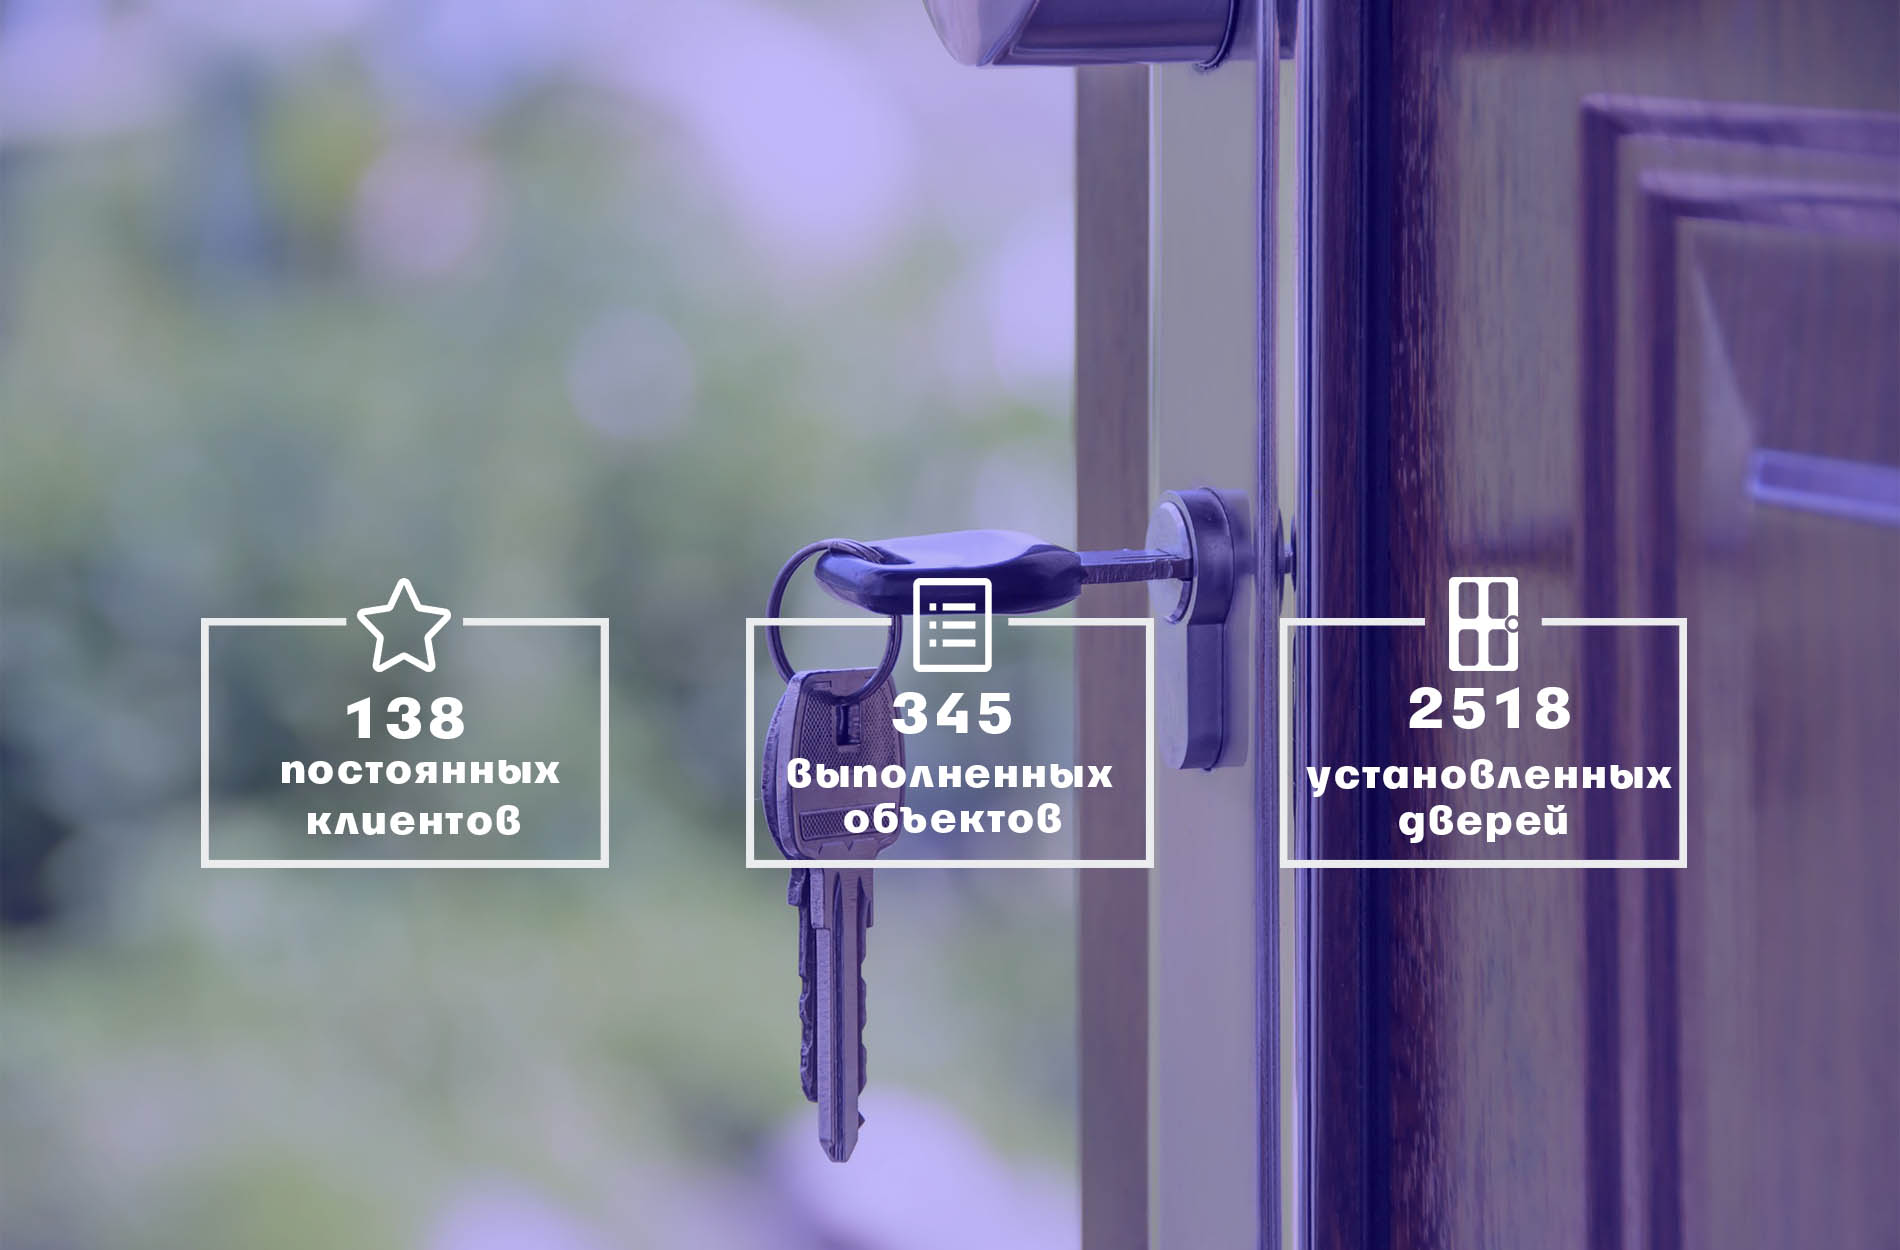
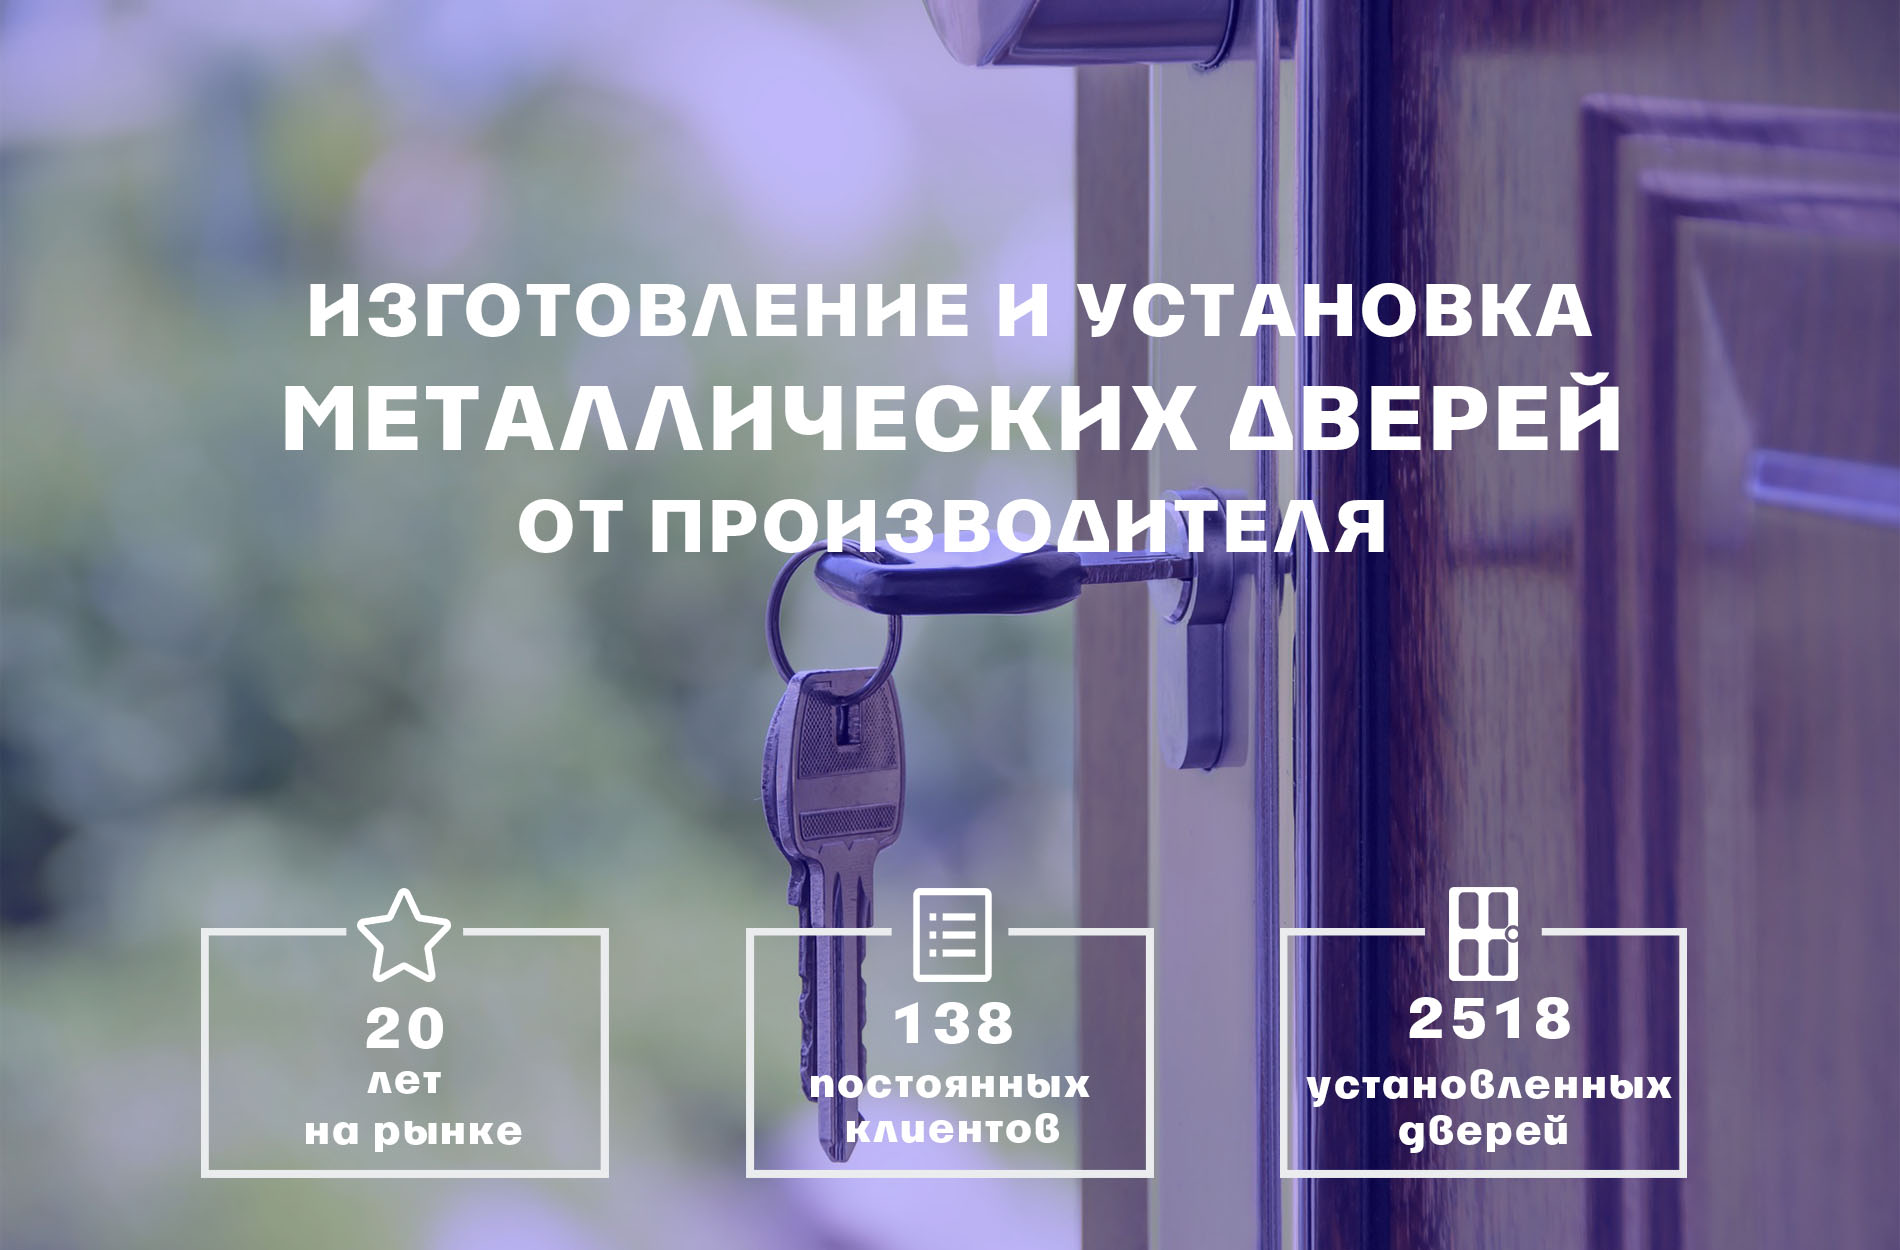
first page changed, some text changes

diff --git a/index.html b/index.html
@@ -41,16 +41,16 @@
               <a class="nav-link js-scroll-trigger" href="#services">Продукция</a>
             </li>
             <li class="nav-item">
-              <a class="nav-link js-scroll-trigger" href="#portfolio">Галерея</a>
+              <a class="nav-link js-scroll-trigger" href="#portfolio">Каталог</a>
             </li>
             <li class="nav-item">
-              <a class="nav-link js-scroll-trigger" href="#about">О нас</a>
+              <a class="nav-link js-scroll-trigger" href="#about">Наши преимущества</a>
             </li>
             <li class="nav-item">
-              <a class="nav-link js-scroll-trigger" href="#team">Команда</a>
+              <a class="nav-link js-scroll-trigger" href="#team">Почему мы?</a>
             </li>
             <li class="nav-item">
-              <a class="nav-link js-scroll-trigger" href="#contact">Заказать звонок</a>
+              <a class="nav-link js-scroll-trigger" href="#contact">Свяжитесь с нами</a>
             </li>
           </ul>
         </div>
@@ -61,8 +61,9 @@
     <header class="masthead">
       <div class="container">
         <div class="intro-text">
-          <div class="intro-lead-in">Изготовление и установка металлических дверей</div>
-          <div class="intro-heading text-uppercase">От производителя</div>
+          </br>
+          </br>
+          </br></br></br></br></br></br>
           <a class="btn btn-primary btn-xl text-uppercase js-scroll-trigger" href="#services">Узнать чуть больше</a>
         </div>
       </div>
@@ -73,8 +74,8 @@
       <div class="container">
         <div class="row">
           <div class="col-lg-12 text-center">
-            <h2 class="section-heading text-uppercase">Услуги</h2>
-            <h3 class="section-subheading text-muted">Lorem ipsum dolor sit amet consectetur.</h3>
+            <h2 class="section-heading text-uppercase">Продукция</h2>
+            <h3 class="section-subheading text-muted">Только качественная продукция от молдавского производителя! </br> Изготавливаем двери только из качественных материалов, любой конструкции и дизайна, отвечающего требованиям заказчика.</h3>
           </div>
         </div>
         <div class="row text-center">
@@ -108,7 +109,7 @@
       <div class="container">
         <div class="row">
           <div class="col-lg-12 text-center">
-            <h2 class="section-heading text-uppercase">Галерея</h2>
+            <h2 class="section-heading text-uppercase">Каталог</h2>
             <h3 class="section-subheading text-muted">Lorem ipsum dolor sit amet consectetur.</h3>
           </div>
         </div>
@@ -206,7 +207,7 @@
       <div class="container">
         <div class="row">
           <div class="col-lg-12 text-center">
-            <h2 class="section-heading text-uppercase">О нас</h2>
+            <h2 class="section-heading text-uppercase">Наши преимущества</h2>
             <h3 class="section-subheading text-muted">Lorem ipsum dolor sit amet consectetur.</h3>
           </div>
         </div>
@@ -287,7 +288,7 @@
       <div class="container">
         <div class="row">
           <div class="col-lg-12 text-center">
-            <h2 class="section-heading text-uppercase">Our Amazing Team</h2>
+            <h2 class="section-heading text-uppercase">Почему мы?</h2>
             <h3 class="section-subheading text-muted">Lorem ipsum dolor sit amet consectetur.</h3>
           </div>
         </div>
